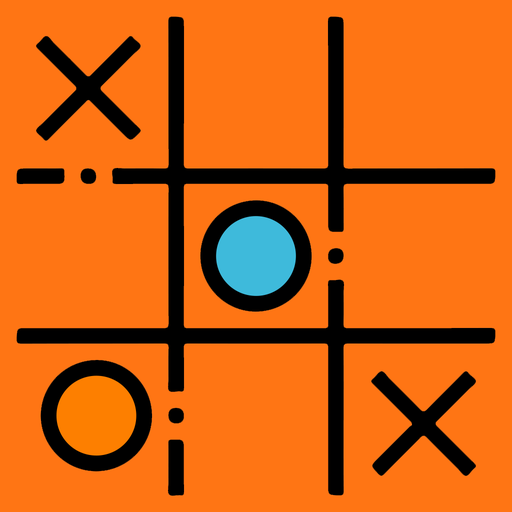
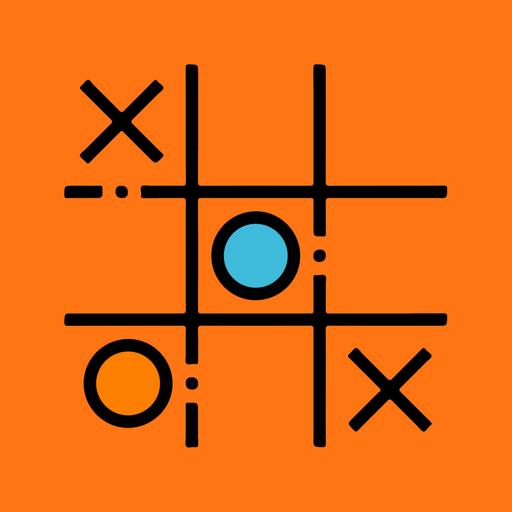
Adapt game for PewPlay template

Changed region(s): [[0.0312, 0.0312, 0.9688, 0.9688]]

diff --git a/script.js b/script.js
@@ -39,11 +39,12 @@ document.addEventListener('DOMContentLoaded', () => {
   const tiles = document.querySelectorAll('.tile');
 
   const handleClick = (tile) => {
+    if (isGameOver) return;
     if (isOnePlayer === true) {
       if (isXTurn && tile.textContent === '') {
         markX(tile);
         isComputerTurn = true;
-        !isGameOver ? 
+        !isGameOver && validPlays < 9 ? 
         setTimeout(() => computerMarkO(), 1000) :
         false;
       }
@@ -209,13 +210,13 @@ document.addEventListener('DOMContentLoaded', () => {
       setTimeout(() => {
         gameOverMsg.style.display = 'block';
         playerTurn.textContent === 'X' ? 
-        winner.textContent = 'Giocatore O Vince!' : 
-        winner.textContent = 'Giocatore X Vince!';
+        winner.textContent = 'Player O wins!' : 
+        winner.textContent = 'Player X wins!';
       }, 1000);
     } 
     if (!isGameOver) {
       gameOverMsg.style.display = 'block';
-      winner.textContent = 'Pareggio!'
+      winner.textContent = 'Draw!'
     }
   }
 
@@ -245,5 +246,5 @@ document.addEventListener('DOMContentLoaded', () => {
   }
 
   resetBtn.addEventListener('click', () => reset());
-  playerToggleBtn.addEventListener('click', () => handleNumPlayers());
+  document.getElementById('toggle-switch').addEventListener('click', () => handleNumPlayers());
 });

diff --git a/index.html b/index.html
@@ -1,11 +1,10 @@
 <!DOCTYPE html>
-<html lang="en" >
+<html lang="en">
 <head>
-  <meta charset="UTF-8">
+  <meta charset="utf-8">
   <title>Tic Tac Toe</title>
   <link rel="stylesheet" href="./style.css">
-  <meta name="viewport" content="width=device-width, initial-scale=1.0">
-  <link rel="shortcut icon" href="preview.png" type="image/png">
+  <meta name="viewport" content="width=device-width, initial-scale=1">
 
 </head>
 <body>
@@ -13,7 +12,7 @@
 
 <header>
     <h1>Tic Tac Toe</h1>
-    <p>Turno di <span id="player-turn"></span></p>
+    <p>Turn: <span id="player-turn"></span></p>
   </header>
   <main id="gameboard">
     <div class="line r r-1"></div>
@@ -22,15 +21,15 @@
     <div class="line c c-2"></div>
   </main>
   <div id="num-of-players">
-    <p>Giocatore singolo</p>
-    <div id="toggle-switch">
+    <p>1 Player</p>
+    <div id="toggle-switch" role="button" aria-label="Switch between 1 player and 2 players">
       <div id="toggle-btn"></div>
     </div>
-    <p>Vs</p>
+    <p>2 Players</p>
   </div>
   <div id="gameover-msg">
     
-    <button id="reset-btn"><h3 id="winner"></h3>Nuova partita</button>
+    <button id="reset-btn"><h3 id="winner"></h3>New game</button>
   </div>
 <!-- partial -->
   <script  src="./script.js"></script>

diff --git a/style.css b/style.css
@@ -86,6 +86,7 @@ header #player-turn {
   height: 25px;
   border-radius: 100px;
   border: 2px solid #F6F7EB;
+  cursor: pointer;
 }
 #num-of-players #toggle-switch #toggle-btn {
   float: left;
